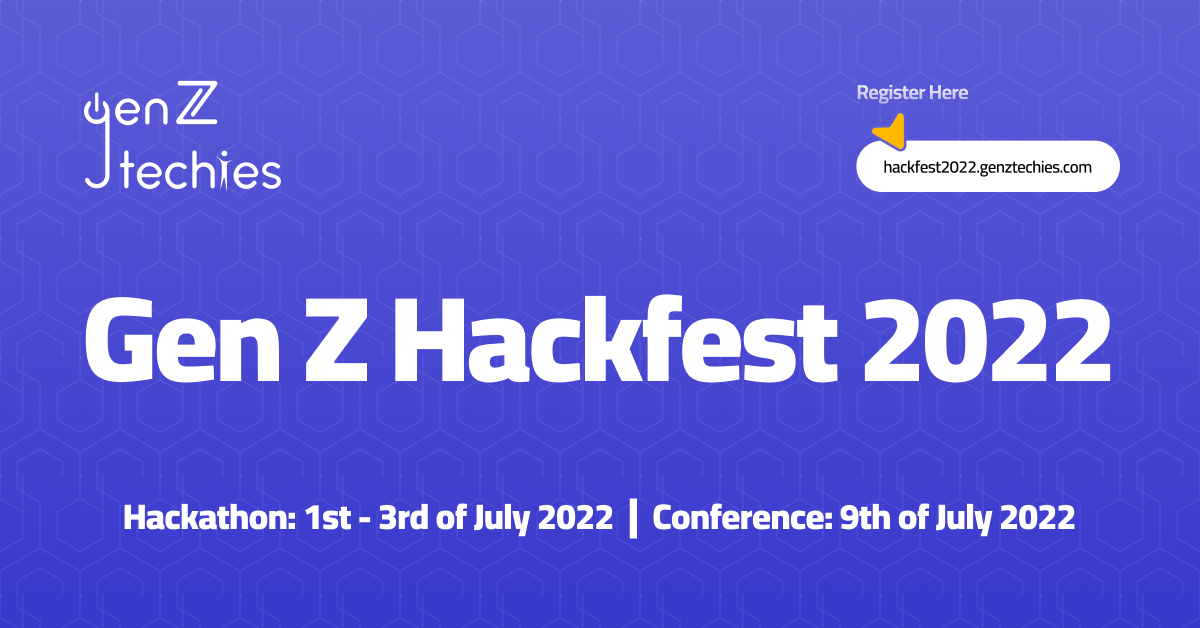
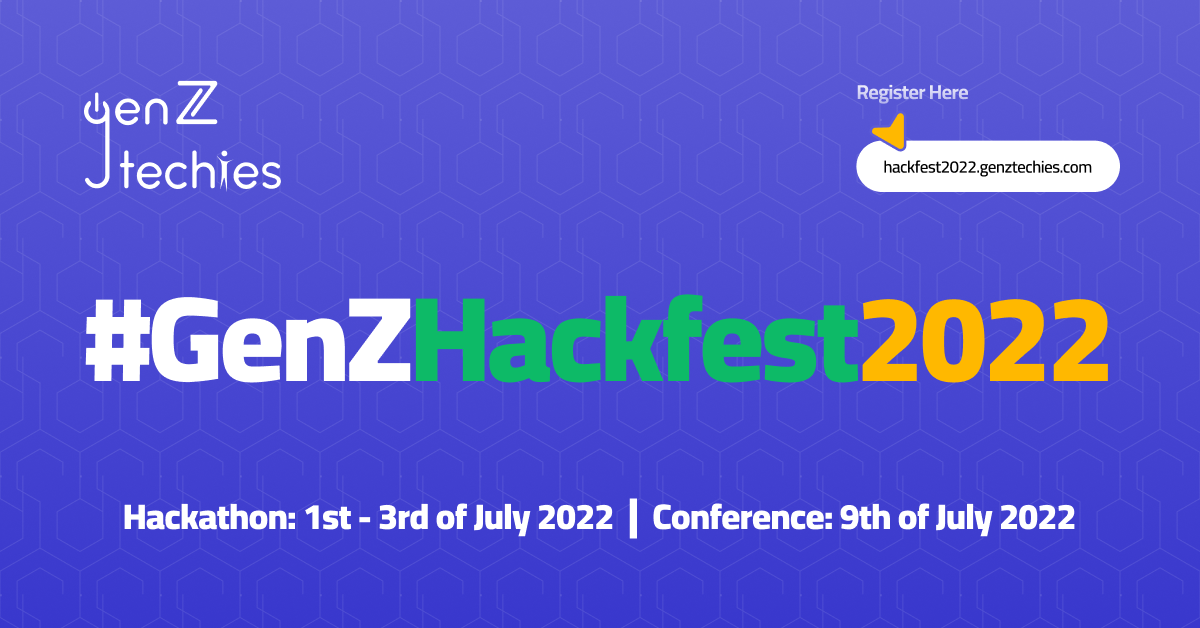
chore: site-preview update and event dates updated

Changed region(s): [[0.0617, 0.4538, 0.925, 0.6354]]

diff --git a/pages/index.tsx b/pages/index.tsx
@@ -44,6 +44,15 @@ const Home: NextPage = () => {
                             </span>
                         </h1>
 
+                        <p className="text-lg md:text-3xl text-white text-center font-semibold mt-5">
+                            Hackathon: 1st - 3rd of July 2022{" "}
+                            <span className="hidden md:inline text-5xl">
+                                |
+                                <br className="md:hidden" />
+                            </span>{" "}
+                            Conference: 9th of July 2022
+                        </p>
+
                         <div className="flex flex-col md:flex-row gap-5 justify-center my-10 py-10">
                             <Link href="/tickets">
                                 <a className="text-center text-white font-black px-6 py-3 bg-primary-purple tracking-wide border-4" data-aos="fade-right">
